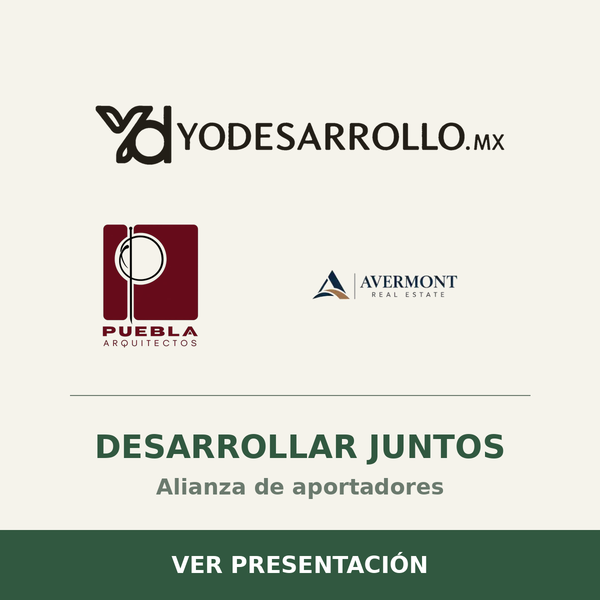
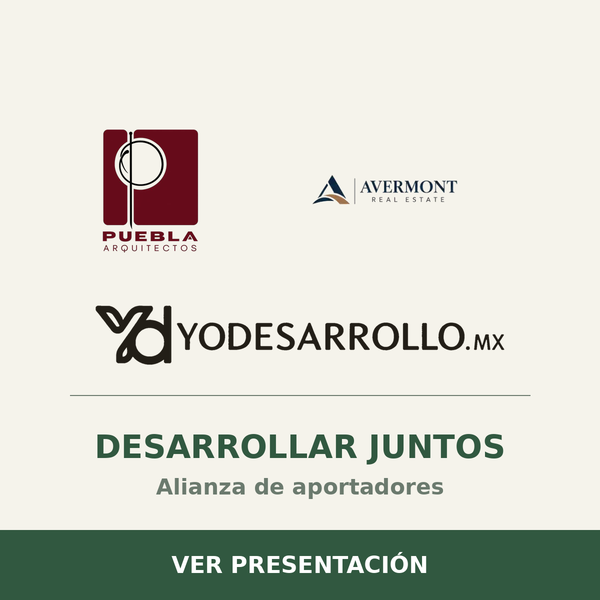
Afina croquis y coloca YoDesarrollo debajo de las marcas aliadas

diff --git a/presentacion/aportadores/style.css b/presentacion/aportadores/style.css
@@ -1,10 +1,10 @@
 @font-face{font-family:DM;src:url('../fonts/dm-regular.woff2') format('woff2');font-weight:400;font-display:swap}@font-face{font-family:DM;src:url('../fonts/dm-bold.woff2') format('woff2');font-weight:700;font-display:swap}@font-face{font-family:Caveat;src:url('../fonts/caveat.woff2') format('woff2');font-weight:400 700;font-display:swap}
 :root{--paper:#f8f6ef;--ink:#35443e;--accent:#35443e;--line:#d8d9cf;--yod-presenter-height:0px;color-scheme:light}*{box-sizing:border-box}html,body{margin:0;background:var(--paper);color:var(--ink);font-family:DM,sans-serif}body{overflow:hidden}[hidden]{display:none!important}button,a,input{-webkit-tap-highlight-color:transparent}button{font:inherit;color:inherit;background:none;border:0;cursor:pointer}button:disabled{opacity:.23;cursor:default}a{color:inherit}button:focus-visible,a:focus-visible,input:focus-visible,#rotor:focus-visible{outline:2px solid var(--accent);outline-offset:5px;border-radius:5px}
 .presentation{height:calc(100svh - var(--yod-presenter-height));height:calc(100dvh - var(--yod-presenter-height));display:grid;grid-template-rows:72px minmax(0,1fr) auto;max-width:1800px;margin:auto;padding:0 4.5vw;overflow:hidden}.masthead{display:flex;align-items:center;gap:24px;border-bottom:1px solid var(--line)}.brand{display:flex;align-items:center;gap:22px;text-decoration:none}.brand img{display:block;object-fit:contain;height:auto}.brand .brand-yod{width:180px}.brand .brand-puebla{width:44px}.brand .brand-avermont{width:128px}.edition{font-size:10px;letter-spacing:.2em;opacity:.58;margin-left:auto}.icon-button{font-size:22px;width:44px;height:44px;border-radius:50%;flex-shrink:0}.icon-button:hover{background:#35443e0a}
-.drawing{position:relative;min-height:0;isolation:isolate;overflow:hidden}#stage{position:absolute;inset:0}#stage>svg{display:block;width:100%;height:100%;overflow:hidden;color:var(--ink)}.ink-stroke{stroke:currentColor;stroke-width:1.8px;stroke-linecap:round;stroke-linejoin:round;vector-effect:non-scaling-stroke}.art-label{fill:currentColor;font-family:Caveat,DM,sans-serif;font-weight:500;letter-spacing:.01em}#opening{position:absolute;left:50%;top:45%;transform:translate(-50%,-50%);width:min(540px,90%);pointer-events:none;text-align:center}#opening img{display:block;object-fit:contain;height:auto;margin-inline:auto}#opening .opening-yod{width:min(400px,100%)}.opening-partners{display:flex;justify-content:center;align-items:center;gap:48px;margin-top:34px}#opening .opening-puebla{width:88px;margin:0}#opening .opening-avermont{width:228px;margin:0}#opening svg{width:100%;height:30px;margin-top:20px}#opening path{fill:none;stroke:var(--ink);stroke-width:1.1;stroke-linecap:round;stroke-dasharray:310;animation:first-trace 1.5s ease-out both}@keyframes first-trace{from{stroke-dashoffset:310}to{stroke-dashoffset:0}}
+.drawing{position:relative;min-height:0;isolation:isolate;overflow:hidden}#stage{position:absolute;inset:0}#stage>svg{display:block;width:100%;height:100%;overflow:hidden;color:var(--ink)}.ink-stroke{stroke:currentColor;stroke-width:var(--ink-width,1.4px);stroke-linecap:round;stroke-linejoin:round;vector-effect:non-scaling-stroke}.art-label{fill:currentColor;font-family:DM,sans-serif;font-weight:400;letter-spacing:.01em}#opening{position:absolute;left:50%;top:45%;transform:translate(-50%,-50%);width:min(540px,90%);pointer-events:none;text-align:center}#opening img{display:block;object-fit:contain;height:auto;margin-inline:auto}#opening .opening-yod{width:min(400px,100%)}.opening-partners{display:flex;justify-content:center;align-items:center;gap:48px;margin-bottom:34px}#opening .opening-puebla{width:88px;margin:0}#opening .opening-avermont{width:228px;margin:0}#opening svg{width:100%;height:30px;margin-top:20px}#opening path{fill:none;stroke:var(--ink);stroke-width:1.1;stroke-linecap:round;stroke-dasharray:310;animation:first-trace 1.5s ease-out both}@keyframes first-trace{from{stroke-dashoffset:310}to{stroke-dashoffset:0}}
 #rotor{position:absolute;right:0;top:18%;bottom:18%;width:45px;display:flex;flex-direction:column;justify-content:center;align-items:center;gap:7px;touch-action:none;cursor:ns-resize;z-index:3;border-radius:24px}#rotor span{height:1px;width:8px;background:#7f887b;opacity:.27;transform:rotate(-20deg)}#rotor:hover span,#rotor:focus span{opacity:.8}#gesture-hint{position:absolute;right:12px;top:50%;writing-mode:vertical-rl;font-size:10px;letter-spacing:.06em;color:#8b9286;opacity:0;transition:opacity .3s;pointer-events:none}body.show-hint #gesture-hint{opacity:1}.pin{position:absolute;bottom:14px;right:0;font-size:16px;z-index:5}.pin.armed{background:#e6e0c6}
 .narrative{width:min(860px,100%);justify-self:center;text-align:center;padding:8px 0 max(14px,env(safe-area-inset-bottom));position:relative}#caption{color:var(--accent);font-size:clamp(23px,2.6vw,37px);line-height:1.2;font-weight:400;letter-spacing:-.035em;min-height:2.5em;margin:0 auto 13px;display:flex;align-items:center;justify-content:center;max-width:800px;text-wrap:balance}.navigation{display:flex;justify-content:space-between;align-items:center;margin:0 0 7px}.arrow{width:56px;height:44px;font-size:27px;transition:background .2s;border-radius:50%}.arrow:hover{background:#35443e09}#chapter{display:flex;align-items:center;gap:16px;font-size:12px;letter-spacing:.03em;padding:12px 16px;color:#687467}#chapter>span:last-child{font-size:18px;color:#939b8c}#progress{appearance:none;-webkit-appearance:none;width:100%;height:16px;display:block;cursor:ew-resize;background:transparent;margin:0;accent-color:var(--accent)}#progress::-webkit-slider-runnable-track{height:2px;background:linear-gradient(to right,var(--accent) 0 var(--progress,0%),var(--line) var(--progress,0%) 100%)}#progress::-webkit-slider-thumb{appearance:none;width:10px;height:10px;border-radius:50%;background:var(--accent);margin-top:-4px}#progress::-moz-range-track{height:2px;background:var(--line)}#progress::-moz-range-thumb{width:10px;height:10px;border:0;background:var(--accent)}.help{margin:5px 0 0;font-size:10px;color:#8d9387;letter-spacing:.06em}
 dialog{background:var(--paper);color:var(--ink);border:1px solid var(--line);border-radius:12px;max-width:min(540px,92vw);max-height:85dvh;padding:22px;box-shadow:0 24px 100px #28392b30}dialog::backdrop{background:#28392b5c;backdrop-filter:blur(5px)}.dialog-head{display:flex;gap:24px;align-items:center;justify-content:space-between}.dialog-head h2{font-size:21px;font-weight:400}.dialog-head button{font-size:30px;width:44px;height:44px}#scene-list{display:grid}#scene-list button{padding:14px 12px;border-top:1px solid var(--line);display:flex;gap:24px;text-align:left;font-size:15px}#scene-list button span{color:#92998c;font-size:12px}#scene-list button[aria-current=true]{color:var(--accent);background:#35443e06}#toast{position:fixed;bottom:calc(20px + var(--yod-presenter-height));left:50%;transform:translateX(-50%);width:max-content;max-width:90vw;border-radius:8px;padding:12px 18px;background:var(--ink);color:var(--paper);font-size:13px;z-index:100;opacity:0;pointer-events:none}#toast.visible{opacity:1}.review-item{padding:15px 0;border-bottom:1px solid var(--line)}.review-item img{width:100%}.yod-presenter{font-family:DM,sans-serif}.yod-presenter.yp-public{display:none!important}.yod-public-summary{position:absolute;inset:80px 5vw 210px;z-index:6;background:var(--paper)}body.yod-session-summary #stage{visibility:hidden}body.yod-owner .yod-presenter{background:var(--paper);border-color:var(--line)}
-@media(max-width:650px){.presentation{grid-template-rows:60px minmax(0,1fr) auto;padding:0 22px}.masthead{gap:10px}.brand{gap:12px}.brand .brand-yod{width:122px}.brand .brand-puebla{width:32px}.brand .brand-avermont{width:88px}.opening-partners{gap:28px;margin-top:28px}#opening .opening-puebla{width:72px}#opening .opening-avermont{width:174px}.edition{display:none}.masthead>.icon-button{margin-left:auto}.narrative{padding-top:5px}#caption{font-size:25px;line-height:1.2;min-height:3.6em;margin-bottom:4px}#rotor{right:0;width:38px;top:10%;bottom:10%}#chapter{font-size:11px;padding:9px 5px;gap:8px}.help{font-size:9px}.navigation{margin:0}.arrow{width:44px;height:44px}#gesture-hint{right:9px}.yod-presenter{flex-wrap:wrap}.yod-owner .presentation{min-height:360px}}
-@media(max-height:520px) and (orientation:landscape){.presentation{grid-template-rows:44px minmax(0,1fr) 94px;padding:0 25px}.masthead{border:0}.brand{gap:16px}.brand .brand-yod{width:136px}.brand .brand-puebla{width:30px}.brand .brand-avermont{width:96px}.narrative{width:min(620px,100%);padding:0}#caption{font-size:22px;min-height:1.2em;margin:0}.navigation{height:35px;margin:0}.arrow{height:32px}#chapter{padding:4px 12px}#progress{height:12px}.help{display:none}.pin{bottom:0}.edition{font-size:9px}#rotor{right:0}#opening{top:47%;width:360px}#opening .opening-yod{width:270px}.opening-partners{gap:38px;margin-top:15px}#opening .opening-puebla{width:48px}#opening .opening-avermont{width:166px}#opening svg{height:15px;margin-top:6px}}
+@media(max-width:650px){.presentation{grid-template-rows:60px minmax(0,1fr) auto;padding:0 22px}.masthead{gap:10px}.brand{gap:12px}.brand .brand-yod{width:122px}.brand .brand-puebla{width:32px}.brand .brand-avermont{width:88px}.opening-partners{gap:28px;margin-bottom:28px}#opening .opening-puebla{width:72px}#opening .opening-avermont{width:174px}.edition{display:none}.masthead>.icon-button{margin-left:auto}.narrative{padding-top:5px}#caption{font-size:25px;line-height:1.2;min-height:3.6em;margin-bottom:4px}#rotor{right:0;width:38px;top:10%;bottom:10%}#chapter{font-size:11px;padding:9px 5px;gap:8px}.help{font-size:9px}.navigation{margin:0}.arrow{width:44px;height:44px}#gesture-hint{right:9px}.yod-presenter{flex-wrap:wrap}.yod-owner .presentation{min-height:360px}}
+@media(max-height:520px) and (orientation:landscape){.presentation{grid-template-rows:44px minmax(0,1fr) 94px;padding:0 25px}.masthead{border:0}.brand{gap:16px}.brand .brand-yod{width:136px}.brand .brand-puebla{width:30px}.brand .brand-avermont{width:96px}.narrative{width:min(620px,100%);padding:0}#caption{font-size:22px;min-height:1.2em;margin:0}.navigation{height:35px;margin:0}.arrow{height:32px}#chapter{padding:4px 12px}#progress{height:12px}.help{display:none}.pin{bottom:0}.edition{font-size:9px}#rotor{right:0}#opening{top:47%;width:360px}#opening .opening-yod{width:270px}.opening-partners{gap:38px;margin-bottom:15px}#opening .opening-puebla{width:48px}#opening .opening-avermont{width:166px}#opening svg{height:15px;margin-top:6px}}
 @media(prefers-reduced-motion:reduce){*,*::before,*::after{animation:none!important;transition:none!important}}

diff --git a/presentacion/aportadores/index.html b/presentacion/aportadores/index.html
@@ -1,13 +1,13 @@
 <!doctype html>
-<html lang="es"><head><meta charset="utf-8"><meta name="viewport" content="width=device-width,initial-scale=1,viewport-fit=cover"><meta name="theme-color" content="#f8f6ef"><title>Telón YOD · Desarrollar juntos</title><meta property="og:title" content="Telón YOD · Desarrollar juntos"><meta property="og:description" content="De las aportaciones a los frutos del proyecto. Una conversación dibujada de YoDesarrollo."><meta property="og:image" content="https://yodesarrollomx.github.io/yodesarrollo-board/presentacion/telon/aportadores-logos2-visor.png"><meta name="description" content="De las aportaciones a los frutos del proyecto. Una conversación dibujada de YoDesarrollo."><link rel="canonical" href="https://yodesarrollomx.github.io/yodesarrollo-board/presentacion/aportadores/"><link rel="preload" href="../fonts/dm-regular.woff2" as="font" type="font/woff2" crossorigin><link rel="preload" href="../fonts/caveat.woff2" as="font" type="font/woff2" crossorigin><link rel="stylesheet" href="style.css?v=YOD-APORTADORES-LOGOS-2"><link rel="stylesheet" href="../presenter.css?v=PMD-1.0.0"></head>
+<html lang="es"><head><meta charset="utf-8"><meta name="viewport" content="width=device-width,initial-scale=1,viewport-fit=cover"><meta name="theme-color" content="#f8f6ef"><title>Telón YOD · Desarrollar juntos</title><meta property="og:title" content="Telón YOD · Desarrollar juntos"><meta property="og:description" content="De las aportaciones a los frutos del proyecto. Una conversación dibujada de YoDesarrollo."><meta property="og:image" content="https://yodesarrollomx.github.io/yodesarrollo-board/presentacion/telon/aportadores-logos3-visor.png"><meta name="description" content="De las aportaciones a los frutos del proyecto. Una conversación dibujada de YoDesarrollo."><link rel="canonical" href="https://yodesarrollomx.github.io/yodesarrollo-board/presentacion/aportadores/"><link rel="preload" href="../fonts/dm-regular.woff2" as="font" type="font/woff2" crossorigin><link rel="preload" href="../fonts/caveat.woff2" as="font" type="font/woff2" crossorigin><link rel="stylesheet" href="style.css?v=YOD-APORTADORES-LOGOS-3"><link rel="stylesheet" href="../presenter.css?v=PMD-1.0.0"></head>
 <body>
 <main class="presentation">
  <header class="masthead"><a href="../../presentaciones.html" class="brand" aria-label="Volver a Presentaciones"><img class="brand-yod" src="assets/yodesarrollo-original.png" alt="YoDesarrollo" width="820" height="120"><img class="brand-puebla" src="assets/puebla-arquitectos-original.png" alt="Puebla Arquitectos" width="507" height="507"><img class="brand-avermont" src="assets/avermont-original.webp" alt="Avermont Real Estate" width="300" height="69"></a><span class="edition">DESARROLLAR JUNTOS</span><button id="fullscreen" class="icon-button" aria-label="Pantalla completa" title="Pantalla completa">⛶</button></header>
- <section class="drawing" aria-label="Presentación dibujada"><div id="stage"></div><div id="opening" aria-hidden="true"><img class="opening-yod" src="assets/yodesarrollo-original.png" alt="" width="820" height="120"><div class="opening-partners"><img class="opening-puebla" src="assets/puebla-arquitectos-original.png" alt="" width="507" height="507"><img class="opening-avermont" src="assets/avermont-original.webp" alt="" width="300" height="69"></div><svg viewBox="0 0 340 30"><path d="M15 18 Q150 15 325 17"/></svg></div><button id="pin" hidden class="pin icon-button" aria-label="Añadir una chinche a este dibujo" title="Comentar este dibujo">📌</button><div id="rotor" role="slider" tabindex="0" aria-label="Recorrer el dibujo" aria-valuemin="0" aria-valuemax="32" aria-valuenow="0"><span></span><span></span><span></span><span></span><span></span></div><span id="gesture-hint">Desliza aquí para dibujar</span></section>
+ <section class="drawing" aria-label="Presentación dibujada"><div id="stage"></div><div id="opening" aria-hidden="true"><div class="opening-partners"><img class="opening-puebla" src="assets/puebla-arquitectos-original.png" alt="" width="507" height="507"><img class="opening-avermont" src="assets/avermont-original.webp" alt="" width="300" height="69"></div><img class="opening-yod" src="assets/yodesarrollo-original.png" alt="" width="820" height="120"><svg viewBox="0 0 340 30"><path d="M15 18 Q150 15 325 17"/></svg></div><button id="pin" hidden class="pin icon-button" aria-label="Añadir una chinche a este dibujo" title="Comentar este dibujo">📌</button><div id="rotor" role="slider" tabindex="0" aria-label="Recorrer el dibujo" aria-valuemin="0" aria-valuemax="32" aria-valuenow="0"><span></span><span></span><span></span><span></span><span></span></div><span id="gesture-hint">Desliza aquí para dibujar</span></section>
  <footer class="narrative"><p id="caption" aria-live="polite"></p><div class="navigation"><button id="prev" class="arrow" aria-label="Momento anterior">←</button><button id="chapter" aria-label="Elegir una escena"><span id="chapter-label">El modelo tradicional</span><span aria-hidden="true">⌄</span></button><button id="next" class="arrow" aria-label="Comenzar la presentación">→</button></div><input id="progress" type="range" min="0" max="32" step="0.001" value="0" aria-label="Avance de la presentación"><p class="help" id="help">Avanza a tu ritmo · flechas o barra</p></footer>
 </main>
 <dialog id="chapters"><div class="dialog-head"><h2>La conversación</h2><button data-close aria-label="Cerrar">×</button></div><nav id="scene-list" aria-label="Escenas de la presentación"></nav></dialog>
 <dialog id="reviewsDialog"><div class="dialog-head"><h2>Revisiones del dibujo</h2><button data-close aria-label="Cerrar">×</button></div><div id="reviewList"></div></dialog>
 <div id="toast" role="status"></div>
-<script src="https://yodesarrollomx.github.io/yod-portal/os/yod-acceso.js?v=1"></script><script src="https://yodesarrollomx.github.io/potenciales-yod/portero.js?v=20261019" data-singate></script><script src="../vendor/html2canvas.min.js?v=single-1"></script><script src="../vendor/yod-chinche.js?v=chinches-1.1.1"></script><script src="../pin-delivery.js?v=sala-pins-2"></script><script src="../registry-core.js?v=PMD-1.1.0"></script><script src="../hub-config.js?v=MDP-1"></script><script src="../hub-api.js?v=PMD-1.0.1"></script><script src="../presenter.js?v=PMD-1.0.0-telon1"></script><script type="module" src="app.mjs?v=YOD-APORTADORES-1"></script>
+<script src="https://yodesarrollomx.github.io/yod-portal/os/yod-acceso.js?v=1"></script><script src="https://yodesarrollomx.github.io/potenciales-yod/portero.js?v=20261019" data-singate></script><script src="../vendor/html2canvas.min.js?v=single-1"></script><script src="../vendor/yod-chinche.js?v=chinches-1.1.1"></script><script src="../pin-delivery.js?v=sala-pins-2"></script><script src="../registry-core.js?v=PMD-1.1.0"></script><script src="../hub-config.js?v=MDP-1"></script><script src="../hub-api.js?v=PMD-1.0.1"></script><script src="../presenter.js?v=PMD-1.0.0-telon1"></script><script type="module" src="app.mjs?v=YOD-APORTADORES-PULIDO-1"></script>
 </body></html>

diff --git a/presentacion/aportadores/maestro.html b/presentacion/aportadores/maestro.html
@@ -1,1 +1,1 @@
-<!doctype html><html lang="es"><head><meta charset="utf-8"><meta name="viewport" content="width=device-width,initial-scale=1"><meta name="robots" content="noindex,nofollow,noarchive"><meta name="theme-color" content="#8f1d1d"><title>⛔ MAESTRO · NO COMPARTIR · Telón YOD · Desarrollar juntos</title><meta property="og:title" content="⛔ MAESTRO · NO COMPARTIR · Telón YOD · Desarrollar juntos"><meta property="og:description" content="Liga privada de Dirección para conducir esta presentación. No la reenvíes: al cliente se le manda la liga VISOR."><meta property="og:image" content="https://yodesarrollomx.github.io/yodesarrollo-board/presentacion/telon/aportadores-logos2-maestro.png"><script>location.replace('./?maestro=1')</script></head><body style="margin:0;display:grid;place-items:center;min-height:100vh;background:#8f1d1d;color:#fff;font:600 16px/1.5 system-ui;text-align:center"><p>⛔ MAESTRO · no compartas esta liga<br><a href="./?maestro=1" style="color:#fff">Abrir el control</a></p></body></html>
+<!doctype html><html lang="es"><head><meta charset="utf-8"><meta name="viewport" content="width=device-width,initial-scale=1"><meta name="robots" content="noindex,nofollow,noarchive"><meta name="theme-color" content="#8f1d1d"><title>⛔ MAESTRO · NO COMPARTIR · Telón YOD · Desarrollar juntos</title><meta property="og:title" content="⛔ MAESTRO · NO COMPARTIR · Telón YOD · Desarrollar juntos"><meta property="og:description" content="Liga privada de Dirección para conducir esta presentación. No la reenvíes: al cliente se le manda la liga VISOR."><meta property="og:image" content="https://yodesarrollomx.github.io/yodesarrollo-board/presentacion/telon/aportadores-logos3-maestro.png"><script>location.replace('./?maestro=1')</script></head><body style="margin:0;display:grid;place-items:center;min-height:100vh;background:#8f1d1d;color:#fff;font:600 16px/1.5 system-ui;text-align:center"><p>⛔ MAESTRO · no compartas esta liga<br><a href="./?maestro=1" style="color:#fff">Abrir el control</a></p></body></html>

diff --git a/scripts/telon-logos.py b/scripts/telon-logos.py
@@ -80,9 +80,9 @@ def aportadores(maestro):
         asset.thumbnail((ancho * ESCALA, alto * ESCALA), Image.Resampling.LANCZOS)
         xy = (int(cx * ESCALA - asset.width / 2), int(cy * ESCALA - asset.height / 2))
         im.paste(asset, xy, asset)
-    marca("yodesarrollo-original.png", 300, 135, 460, 85)
-    marca("puebla-arquitectos-original.png", 150, 285, 128, 128)
-    marca("avermont-original.webp", 385, 285, 270, 90)
+    marca("yodesarrollo-original.png", 300, 335, 460, 85)
+    marca("puebla-arquitectos-original.png", 150, 190, 128, 128)
+    marca("avermont-original.webp", 385, 190, 270, 90)
     d.line((70 * ESCALA, 395 * ESCALA, 530 * ESCALA, 395 * ESCALA), fill=GRIS, width=ESCALA)
     centrado(d, "DESARROLLAR JUNTOS", fuente(SANS, "DESARROLLAR JUNTOS", 32, 530), 300, 447, VERDE)
     centrado(d, "Alianza de aportadores", fuente(SANS, "Alianza de aportadores", 22, 500), 300, 487, GRIS)
@@ -100,7 +100,7 @@ def main():
             imagen = aportadores(maestro) if slug == "aportadores" else logo(mono, nombre, sub, maestro)
             imagen.save(destino, optimize=True)
             if slug == "aportadores":
-                imagen.save(SALIDA / f"aportadores-logos2-{'maestro' if maestro else 'visor'}.png", optimize=True)
+                imagen.save(SALIDA / f"aportadores-logos3-{'maestro' if maestro else 'visor'}.png", optimize=True)
             print(destino.relative_to(SALIDA.parent.parent), destino.stat().st_size, "bytes")
 
 
